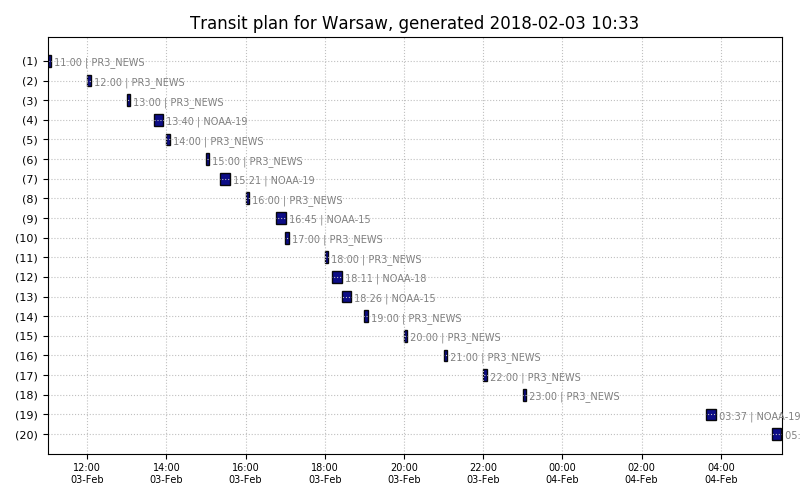
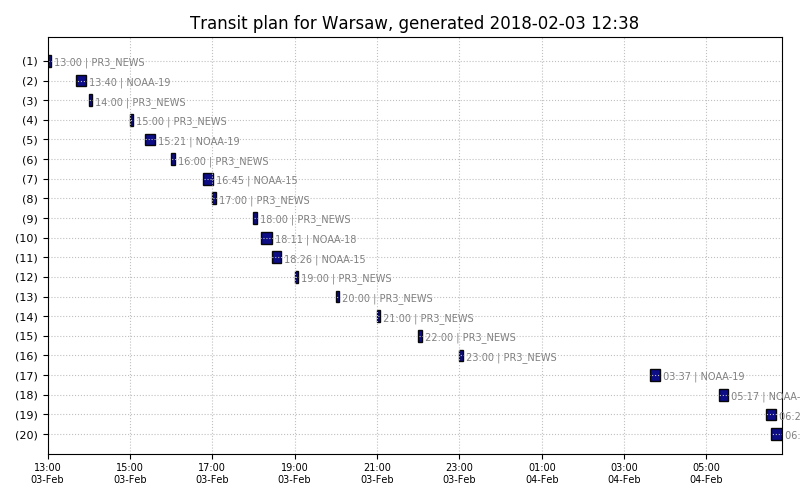
txt table pass generator

diff --git a/var/nextpass.html b/var/nextpass.html
@@ -1,92 +1,92 @@
 <table>
 <tr><td>#</td><td>satellite</td><td>start</td><td>duration</td><td>peak</td><td>azimuth</td><td>freq</td><td>process with</td><tr>
-<tr><td>1</td><td>PR3_NEWS</td><td>2018-02-03 11:00</td><td>05:00</td><td>0°</td><td>0° (N)</td><td>98988000Hz</td><td>modules/fm/fm.sh</td><tr>
-<tr><td>2</td><td>PR3_NEWS</td><td>2018-02-03 12:00</td><td>05:00</td><td>0°</td><td>0° (N)</td><td>98988000Hz</td><td>modules/fm/fm.sh</td><tr>
-<tr><td>3</td><td>PR3_NEWS</td><td>2018-02-03 13:00</td><td>05:00</td><td>0°</td><td>0° (N)</td><td>98988000Hz</td><td>modules/fm/fm.sh</td><tr>
-<tr><td>4</td><td>NOAA-19</td><td>2018-02-03 13:40</td><td>14:37</td><td>44°</td><td>63° (NE)</td><td>137100000Hz</td><td>modules/noaa/noaa.sh</td><tr>
-<tr><td>5</td><td>PR3_NEWS</td><td>2018-02-03 14:00</td><td>05:00</td><td>0°</td><td>0° (N)</td><td>98988000Hz</td><td>modules/fm/fm.sh</td><tr>
-<tr><td>6</td><td>PR3_NEWS</td><td>2018-02-03 15:00</td><td>05:00</td><td>0°</td><td>0° (N)</td><td>98988000Hz</td><td>modules/fm/fm.sh</td><tr>
-<tr><td>7</td><td>NOAA-19</td><td>2018-02-03 15:21</td><td>14:32</td><td>36°</td><td>263° (WSW)</td><td>137100000Hz</td><td>modules/noaa/noaa.sh</td><tr>
-<tr><td>8</td><td>PR3_NEWS</td><td>2018-02-03 16:00</td><td>05:00</td><td>0°</td><td>0° (N)</td><td>98988000Hz</td><td>modules/fm/fm.sh</td><tr>
-<tr><td>9</td><td>NOAA-15</td><td>2018-02-03 16:45</td><td>14:30</td><td>59°</td><td>68° (ENE)</td><td>137620000Hz</td><td>modules/noaa/noaa.sh</td><tr>
-<tr><td>10</td><td>PR3_NEWS</td><td>2018-02-03 17:00</td><td>05:00</td><td>0°</td><td>0° (N)</td><td>98988000Hz</td><td>modules/fm/fm.sh</td><tr>
-<tr><td>11</td><td>PR3_NEWS</td><td>2018-02-03 18:00</td><td>05:00</td><td>0°</td><td>0° (N)</td><td>98988000Hz</td><td>modules/fm/fm.sh</td><tr>
-<tr><td>12</td><td>NOAA-18</td><td>2018-02-03 18:11</td><td>15:06</td><td>86°</td><td>72° (ENE)</td><td>137912500Hz</td><td>modules/noaa/noaa.sh</td><tr>
-<tr><td>13</td><td>NOAA-15</td><td>2018-02-03 18:26</td><td>13:38</td><td>25°</td><td>267° (WSW)</td><td>137620000Hz</td><td>modules/noaa/noaa.sh</td><tr>
-<tr><td>14</td><td>PR3_NEWS</td><td>2018-02-03 19:00</td><td>05:00</td><td>0°</td><td>0° (N)</td><td>98988000Hz</td><td>modules/fm/fm.sh</td><tr>
-<tr><td>15</td><td>PR3_NEWS</td><td>2018-02-03 20:00</td><td>05:00</td><td>0°</td><td>0° (N)</td><td>98988000Hz</td><td>modules/fm/fm.sh</td><tr>
-<tr><td>16</td><td>PR3_NEWS</td><td>2018-02-03 21:00</td><td>05:00</td><td>0°</td><td>0° (N)</td><td>98988000Hz</td><td>modules/fm/fm.sh</td><tr>
-<tr><td>17</td><td>PR3_NEWS</td><td>2018-02-03 22:00</td><td>05:00</td><td>0°</td><td>0° (N)</td><td>98988000Hz</td><td>modules/fm/fm.sh</td><tr>
-<tr><td>18</td><td>PR3_NEWS</td><td>2018-02-03 23:00</td><td>05:00</td><td>0°</td><td>0° (N)</td><td>98988000Hz</td><td>modules/fm/fm.sh</td><tr>
-<tr><td>19</td><td>NOAA-19</td><td>2018-02-04 03:37</td><td>15:09</td><td>61°</td><td>102° (E)</td><td>137100000Hz</td><td>modules/noaa/noaa.sh</td><tr>
-<tr><td>20</td><td>NOAA-19</td><td>2018-02-04 05:17</td><td>13:56</td><td>28°</td><td>302° (WNW)</td><td>137100000Hz</td><td>modules/noaa/noaa.sh</td><tr>
-<tr><td>21</td><td>NOAA-18</td><td>2018-02-04 06:27</td><td>13:37</td><td>22°</td><td>90° (E)</td><td>137912500Hz</td><td>modules/noaa/noaa.sh</td><tr>
-<tr><td>22</td><td>NOAA-15</td><td>2018-02-04 06:34</td><td>14:39</td><td>79°</td><td>105° (E)</td><td>137620000Hz</td><td>modules/noaa/noaa.sh</td><tr>
-<tr><td>23</td><td>PR3_NEWS</td><td>2018-02-04 07:00</td><td>05:00</td><td>0°</td><td>0° (N)</td><td>98988000Hz</td><td>modules/fm/fm.sh</td><tr>
-<tr><td>24</td><td>PR3_NEWS</td><td>2018-02-04 08:00</td><td>05:00</td><td>0°</td><td>0° (N)</td><td>98988000Hz</td><td>modules/fm/fm.sh</td><tr>
-<tr><td>25</td><td>NOAA-18</td><td>2018-02-04 08:07</td><td>14:54</td><td>68°</td><td>290° (W)</td><td>137912500Hz</td><td>modules/noaa/noaa.sh</td><tr>
-<tr><td>26</td><td>NOAA-15</td><td>2018-02-04 08:14</td><td>12:54</td><td>22°</td><td>305° (WNW)</td><td>137620000Hz</td><td>modules/noaa/noaa.sh</td><tr>
-<tr><td>27</td><td>PR3_NEWS</td><td>2018-02-04 09:00</td><td>05:00</td><td>0°</td><td>0° (N)</td><td>98988000Hz</td><td>modules/fm/fm.sh</td><tr>
-<tr><td>28</td><td>PR3_NEWS</td><td>2018-02-04 10:00</td><td>05:00</td><td>0°</td><td>0° (N)</td><td>98988000Hz</td><td>modules/fm/fm.sh</td><tr>
-<tr><td>29</td><td>PR3_NEWS</td><td>2018-02-04 11:00</td><td>05:00</td><td>0°</td><td>0° (N)</td><td>98988000Hz</td><td>modules/fm/fm.sh</td><tr>
-<tr><td>30</td><td>PR3_NEWS</td><td>2018-02-04 12:00</td><td>05:00</td><td>0°</td><td>0° (N)</td><td>98988000Hz</td><td>modules/fm/fm.sh</td><tr>
-<tr><td>31</td><td>PR3_NEWS</td><td>2018-02-04 13:00</td><td>05:00</td><td>0°</td><td>0° (N)</td><td>98988000Hz</td><td>modules/fm/fm.sh</td><tr>
-<tr><td>32</td><td>NOAA-19</td><td>2018-02-04 13:29</td><td>14:21</td><td>37°</td><td>61° (NE)</td><td>137100000Hz</td><td>modules/noaa/noaa.sh</td><tr>
-<tr><td>33</td><td>PR3_NEWS</td><td>2018-02-04 14:00</td><td>05:00</td><td>0°</td><td>0° (N)</td><td>98988000Hz</td><td>modules/fm/fm.sh</td><tr>
-<tr><td>34</td><td>PR3_NEWS</td><td>2018-02-04 15:00</td><td>05:00</td><td>0°</td><td>0° (N)</td><td>98988000Hz</td><td>modules/fm/fm.sh</td><tr>
-<tr><td>35</td><td>NOAA-19</td><td>2018-02-04 15:09</td><td>14:47</td><td>44°</td><td>261° (WSW)</td><td>137100000Hz</td><td>modules/noaa/noaa.sh</td><tr>
-<tr><td>36</td><td>ISS</td><td>2018-02-04 15:52</td><td>09:45</td><td>38°</td><td>156° (SE)</td><td>145800000Hz</td><td>modules/iss/iss_voice.sh</td><tr>
-<tr><td>37</td><td>PR3_NEWS</td><td>2018-02-04 16:00</td><td>05:00</td><td>0°</td><td>0° (N)</td><td>98988000Hz</td><td>modules/fm/fm.sh</td><tr>
-<tr><td>38</td><td>NOAA-15</td><td>2018-02-04 16:21</td><td>14:05</td><td>40°</td><td>63° (NE)</td><td>137620000Hz</td><td>modules/noaa/noaa.sh</td><tr>
-<tr><td>39</td><td>PR3_NEWS</td><td>2018-02-04 17:00</td><td>05:00</td><td>0°</td><td>0° (N)</td><td>98988000Hz</td><td>modules/fm/fm.sh</td><tr>
-<tr><td>40</td><td>ISS</td><td>2018-02-04 17:28</td><td>10:01</td><td>79°</td><td>175° (SSE)</td><td>145800000Hz</td><td>modules/iss/iss_voice.sh</td><tr>
-<tr><td>41</td><td>NOAA-18</td><td>2018-02-04 17:59</td><td>15:03</td><td>72°</td><td>69° (ENE)</td><td>137912500Hz</td><td>modules/noaa/noaa.sh</td><tr>
-<tr><td>42</td><td>NOAA-15</td><td>2018-02-04 18:01</td><td>14:15</td><td>39°</td><td>262° (WSW)</td><td>137620000Hz</td><td>modules/noaa/noaa.sh</td><tr>
-<tr><td>43</td><td>PR3_NEWS</td><td>2018-02-04 19:00</td><td>05:00</td><td>0°</td><td>0° (N)</td><td>98988000Hz</td><td>modules/fm/fm.sh</td><tr>
-<tr><td>44</td><td>ISS</td><td>2018-02-04 19:04</td><td>09:57</td><td>58°</td><td>195° (S)</td><td>145800000Hz</td><td>modules/iss/iss_voice.sh</td><tr>
-<tr><td>45</td><td>NOAA-18</td><td>2018-02-04 19:41</td><td>13:36</td><td>22°</td><td>269° (WSW)</td><td>137912500Hz</td><td>modules/noaa/noaa.sh</td><tr>
-<tr><td>46</td><td>PR3_NEWS</td><td>2018-02-04 20:00</td><td>05:00</td><td>0°</td><td>0° (N)</td><td>98988000Hz</td><td>modules/fm/fm.sh</td><tr>
-<tr><td>47</td><td>PR3_NEWS</td><td>2018-02-04 21:00</td><td>05:00</td><td>0°</td><td>0° (N)</td><td>98988000Hz</td><td>modules/fm/fm.sh</td><tr>
-<tr><td>48</td><td>PR3_NEWS</td><td>2018-02-04 22:00</td><td>05:00</td><td>0°</td><td>0° (N)</td><td>98988000Hz</td><td>modules/fm/fm.sh</td><tr>
-<tr><td>49</td><td>PR3_NEWS</td><td>2018-02-04 23:00</td><td>05:00</td><td>0°</td><td>0° (N)</td><td>98988000Hz</td><td>modules/fm/fm.sh</td><tr>
-<tr><td>50</td><td>NOAA-19</td><td>2018-02-05 03:25</td><td>15:02</td><td>50°</td><td>100° (E)</td><td>137100000Hz</td><td>modules/noaa/noaa.sh</td><tr>
-<tr><td>51</td><td>NOAA-19</td><td>2018-02-05 05:06</td><td>14:18</td><td>34°</td><td>300° (WNW)</td><td>137100000Hz</td><td>modules/noaa/noaa.sh</td><tr>
-<tr><td>52</td><td>NOAA-15</td><td>2018-02-05 06:09</td><td>14:29</td><td>51°</td><td>100° (E)</td><td>137620000Hz</td><td>modules/noaa/noaa.sh</td><tr>
-<tr><td>53</td><td>PR3_NEWS</td><td>2018-02-05 07:00</td><td>05:00</td><td>0°</td><td>0° (N)</td><td>98988000Hz</td><td>modules/fm/fm.sh</td><tr>
-<tr><td>54</td><td>NOAA-15</td><td>2018-02-05 07:49</td><td>13:41</td><td>31°</td><td>300° (WNW)</td><td>137620000Hz</td><td>modules/noaa/noaa.sh</td><tr>
-<tr><td>55</td><td>NOAA-18</td><td>2018-02-05 07:56</td><td>14:59</td><td>82°</td><td>288° (W)</td><td>137912500Hz</td><td>modules/noaa/noaa.sh</td><tr>
-<tr><td>56</td><td>PR3_NEWS</td><td>2018-02-05 09:00</td><td>05:00</td><td>0°</td><td>0° (N)</td><td>98988000Hz</td><td>modules/fm/fm.sh</td><tr>
-<tr><td>57</td><td>PR3_NEWS</td><td>2018-02-05 10:00</td><td>05:00</td><td>0°</td><td>0° (N)</td><td>98988000Hz</td><td>modules/fm/fm.sh</td><tr>
-<tr><td>58</td><td>PR3_NEWS</td><td>2018-02-05 11:00</td><td>05:00</td><td>0°</td><td>0° (N)</td><td>98988000Hz</td><td>modules/fm/fm.sh</td><tr>
-<tr><td>59</td><td>PR3_NEWS</td><td>2018-02-05 12:00</td><td>05:00</td><td>0°</td><td>0° (N)</td><td>98988000Hz</td><td>modules/fm/fm.sh</td><tr>
-<tr><td>60</td><td>PR3_NEWS</td><td>2018-02-05 13:00</td><td>05:00</td><td>0°</td><td>0° (N)</td><td>98988000Hz</td><td>modules/fm/fm.sh</td><tr>
-<tr><td>61</td><td>NOAA-19</td><td>2018-02-05 13:18</td><td>14:04</td><td>31°</td><td>58° (NE)</td><td>137100000Hz</td><td>modules/noaa/noaa.sh</td><tr>
-<tr><td>62</td><td>PR3_NEWS</td><td>2018-02-05 14:00</td><td>05:00</td><td>0°</td><td>0° (N)</td><td>98988000Hz</td><td>modules/fm/fm.sh</td><tr>
-<tr><td>63</td><td>NOAA-19</td><td>2018-02-05 14:58</td><td>14:57</td><td>54°</td><td>258° (WSW)</td><td>137100000Hz</td><td>modules/noaa/noaa.sh</td><tr>
-<tr><td>64</td><td>PR3_NEWS</td><td>2018-02-05 15:00</td><td>05:00</td><td>0°</td><td>0° (N)</td><td>98988000Hz</td><td>modules/fm/fm.sh</td><tr>
-<tr><td>65</td><td>NOAA-15</td><td>2018-02-05 15:56</td><td>13:35</td><td>27°</td><td>58° (NE)</td><td>137620000Hz</td><td>modules/noaa/noaa.sh</td><tr>
-<tr><td>66</td><td>ISS</td><td>2018-02-05 16:36</td><td>09:58</td><td>71°</td><td>170° (SSE)</td><td>145800000Hz</td><td>modules/iss/iss_voice.sh</td><tr>
-<tr><td>67</td><td>PR3_NEWS</td><td>2018-02-05 17:00</td><td>05:00</td><td>0°</td><td>0° (N)</td><td>98988000Hz</td><td>modules/fm/fm.sh</td><tr>
-<tr><td>68</td><td>NOAA-15</td><td>2018-02-05 17:35</td><td>14:39</td><td>60°</td><td>258° (WSW)</td><td>137620000Hz</td><td>modules/noaa/noaa.sh</td><tr>
-<tr><td>69</td><td>NOAA-18</td><td>2018-02-05 17:48</td><td>15:02</td><td>59°</td><td>67° (NE)</td><td>137912500Hz</td><td>modules/noaa/noaa.sh</td><tr>
-<tr><td>70</td><td>PR3_NEWS</td><td>2018-02-05 18:00</td><td>05:00</td><td>0°</td><td>0° (N)</td><td>98988000Hz</td><td>modules/fm/fm.sh</td><tr>
-<tr><td>71</td><td>ISS</td><td>2018-02-05 18:12</td><td>09:57</td><td>71°</td><td>189° (S)</td><td>145800000Hz</td><td>modules/iss/iss_voice.sh</td><tr>
-<tr><td>72</td><td>PR3_NEWS</td><td>2018-02-05 19:00</td><td>05:00</td><td>0°</td><td>0° (N)</td><td>98988000Hz</td><td>modules/fm/fm.sh</td><tr>
-<tr><td>73</td><td>NOAA-18</td><td>2018-02-05 19:29</td><td>13:55</td><td>26°</td><td>267° (WSW)</td><td>137912500Hz</td><td>modules/noaa/noaa.sh</td><tr>
-<tr><td>74</td><td>ISS</td><td>2018-02-05 19:49</td><td>09:25</td><td>27°</td><td>209° (SSW)</td><td>145800000Hz</td><td>modules/iss/iss_voice.sh</td><tr>
-<tr><td>75</td><td>PR3_NEWS</td><td>2018-02-05 20:00</td><td>05:00</td><td>0°</td><td>0° (N)</td><td>98988000Hz</td><td>modules/fm/fm.sh</td><tr>
-<tr><td>76</td><td>PR3_NEWS</td><td>2018-02-05 21:00</td><td>05:00</td><td>0°</td><td>0° (N)</td><td>98988000Hz</td><td>modules/fm/fm.sh</td><tr>
-<tr><td>77</td><td>PR3_NEWS</td><td>2018-02-05 22:00</td><td>05:00</td><td>0°</td><td>0° (N)</td><td>98988000Hz</td><td>modules/fm/fm.sh</td><tr>
-<tr><td>78</td><td>PR3_NEWS</td><td>2018-02-05 23:00</td><td>05:00</td><td>0°</td><td>0° (N)</td><td>98988000Hz</td><td>modules/fm/fm.sh</td><tr>
-<tr><td>79</td><td>NOAA-19</td><td>2018-02-06 03:13</td><td>14:54</td><td>41°</td><td>98° (E)</td><td>137100000Hz</td><td>modules/noaa/noaa.sh</td><tr>
-<tr><td>80</td><td>NOAA-19</td><td>2018-02-06 04:54</td><td>14:35</td><td>40°</td><td>297° (WNW)</td><td>137100000Hz</td><td>modules/noaa/noaa.sh</td><tr>
-<tr><td>81</td><td>NOAA-15</td><td>2018-02-06 05:44</td><td>14:01</td><td>33°</td><td>95° (E)</td><td>137620000Hz</td><td>modules/noaa/noaa.sh</td><tr>
-<tr><td>82</td><td>PR3_NEWS</td><td>2018-02-06 07:00</td><td>05:00</td><td>0°</td><td>0° (N)</td><td>98988000Hz</td><td>modules/fm/fm.sh</td><tr>
-<tr><td>83</td><td>NOAA-15</td><td>2018-02-06 07:24</td><td>14:12</td><td>46°</td><td>295° (WNW)</td><td>137620000Hz</td><td>modules/noaa/noaa.sh</td><tr>
-<tr><td>84</td><td>NOAA-18</td><td>2018-02-06 07:44</td><td>15:00</td><td>82°</td><td>106° (E)</td><td>137912500Hz</td><td>modules/noaa/noaa.sh</td><tr>
-<tr><td>85</td><td>PR3_NEWS</td><td>2018-02-06 08:00</td><td>05:00</td><td>0°</td><td>0° (N)</td><td>98988000Hz</td><td>modules/fm/fm.sh</td><tr>
-<tr><td>86</td><td>PR3_NEWS</td><td>2018-02-06 09:00</td><td>05:00</td><td>0°</td><td>0° (N)</td><td>98988000Hz</td><td>modules/fm/fm.sh</td><tr>
-<tr><td>87</td><td>NOAA-18</td><td>2018-02-06 09:25</td><td>13:10</td><td>22°</td><td>306° (WNW)</td><td>137912500Hz</td><td>modules/noaa/noaa.sh</td><tr>
+<tr><td>1</td><td>PR3_NEWS</td><td>2018-02-03 13:00</td><td>05:00</td><td>0°</td><td>0° (N)</td><td>98988000Hz</td><td>modules/fm/fm.sh</td><tr>
+<tr><td>2</td><td>NOAA-19</td><td>2018-02-03 13:40</td><td>14:37</td><td>44°</td><td>63° (NE)</td><td>137100000Hz</td><td>modules/noaa/noaa.sh</td><tr>
+<tr><td>3</td><td>PR3_NEWS</td><td>2018-02-03 14:00</td><td>05:00</td><td>0°</td><td>0° (N)</td><td>98988000Hz</td><td>modules/fm/fm.sh</td><tr>
+<tr><td>4</td><td>PR3_NEWS</td><td>2018-02-03 15:00</td><td>05:00</td><td>0°</td><td>0° (N)</td><td>98988000Hz</td><td>modules/fm/fm.sh</td><tr>
+<tr><td>5</td><td>NOAA-19</td><td>2018-02-03 15:21</td><td>14:32</td><td>36°</td><td>263° (WSW)</td><td>137100000Hz</td><td>modules/noaa/noaa.sh</td><tr>
+<tr><td>6</td><td>PR3_NEWS</td><td>2018-02-03 16:00</td><td>05:00</td><td>0°</td><td>0° (N)</td><td>98988000Hz</td><td>modules/fm/fm.sh</td><tr>
+<tr><td>7</td><td>NOAA-15</td><td>2018-02-03 16:45</td><td>14:30</td><td>59°</td><td>68° (ENE)</td><td>137620000Hz</td><td>modules/noaa/noaa.sh</td><tr>
+<tr><td>8</td><td>PR3_NEWS</td><td>2018-02-03 17:00</td><td>05:00</td><td>0°</td><td>0° (N)</td><td>98988000Hz</td><td>modules/fm/fm.sh</td><tr>
+<tr><td>9</td><td>PR3_NEWS</td><td>2018-02-03 18:00</td><td>05:00</td><td>0°</td><td>0° (N)</td><td>98988000Hz</td><td>modules/fm/fm.sh</td><tr>
+<tr><td>10</td><td>NOAA-18</td><td>2018-02-03 18:11</td><td>15:06</td><td>86°</td><td>72° (ENE)</td><td>137912500Hz</td><td>modules/noaa/noaa.sh</td><tr>
+<tr><td>11</td><td>NOAA-15</td><td>2018-02-03 18:26</td><td>13:38</td><td>25°</td><td>267° (WSW)</td><td>137620000Hz</td><td>modules/noaa/noaa.sh</td><tr>
+<tr><td>12</td><td>PR3_NEWS</td><td>2018-02-03 19:00</td><td>05:00</td><td>0°</td><td>0° (N)</td><td>98988000Hz</td><td>modules/fm/fm.sh</td><tr>
+<tr><td>13</td><td>PR3_NEWS</td><td>2018-02-03 20:00</td><td>05:00</td><td>0°</td><td>0° (N)</td><td>98988000Hz</td><td>modules/fm/fm.sh</td><tr>
+<tr><td>14</td><td>PR3_NEWS</td><td>2018-02-03 21:00</td><td>05:00</td><td>0°</td><td>0° (N)</td><td>98988000Hz</td><td>modules/fm/fm.sh</td><tr>
+<tr><td>15</td><td>PR3_NEWS</td><td>2018-02-03 22:00</td><td>05:00</td><td>0°</td><td>0° (N)</td><td>98988000Hz</td><td>modules/fm/fm.sh</td><tr>
+<tr><td>16</td><td>PR3_NEWS</td><td>2018-02-03 23:00</td><td>05:00</td><td>0°</td><td>0° (N)</td><td>98988000Hz</td><td>modules/fm/fm.sh</td><tr>
+<tr><td>17</td><td>NOAA-19</td><td>2018-02-04 03:37</td><td>15:09</td><td>61°</td><td>102° (E)</td><td>137100000Hz</td><td>modules/noaa/noaa.sh</td><tr>
+<tr><td>18</td><td>NOAA-19</td><td>2018-02-04 05:17</td><td>13:56</td><td>28°</td><td>302° (WNW)</td><td>137100000Hz</td><td>modules/noaa/noaa.sh</td><tr>
+<tr><td>19</td><td>NOAA-18</td><td>2018-02-04 06:27</td><td>13:37</td><td>22°</td><td>90° (E)</td><td>137912500Hz</td><td>modules/noaa/noaa.sh</td><tr>
+<tr><td>20</td><td>NOAA-15</td><td>2018-02-04 06:34</td><td>14:39</td><td>79°</td><td>105° (E)</td><td>137620000Hz</td><td>modules/noaa/noaa.sh</td><tr>
+<tr><td>21</td><td>PR3_NEWS</td><td>2018-02-04 07:00</td><td>05:00</td><td>0°</td><td>0° (N)</td><td>98988000Hz</td><td>modules/fm/fm.sh</td><tr>
+<tr><td>22</td><td>PR3_NEWS</td><td>2018-02-04 08:00</td><td>05:00</td><td>0°</td><td>0° (N)</td><td>98988000Hz</td><td>modules/fm/fm.sh</td><tr>
+<tr><td>23</td><td>NOAA-18</td><td>2018-02-04 08:07</td><td>14:54</td><td>68°</td><td>290° (W)</td><td>137912500Hz</td><td>modules/noaa/noaa.sh</td><tr>
+<tr><td>24</td><td>NOAA-15</td><td>2018-02-04 08:14</td><td>12:54</td><td>22°</td><td>305° (WNW)</td><td>137620000Hz</td><td>modules/noaa/noaa.sh</td><tr>
+<tr><td>25</td><td>PR3_NEWS</td><td>2018-02-04 09:00</td><td>05:00</td><td>0°</td><td>0° (N)</td><td>98988000Hz</td><td>modules/fm/fm.sh</td><tr>
+<tr><td>26</td><td>PR3_NEWS</td><td>2018-02-04 10:00</td><td>05:00</td><td>0°</td><td>0° (N)</td><td>98988000Hz</td><td>modules/fm/fm.sh</td><tr>
+<tr><td>27</td><td>PR3_NEWS</td><td>2018-02-04 11:00</td><td>05:00</td><td>0°</td><td>0° (N)</td><td>98988000Hz</td><td>modules/fm/fm.sh</td><tr>
+<tr><td>28</td><td>PR3_NEWS</td><td>2018-02-04 12:00</td><td>05:00</td><td>0°</td><td>0° (N)</td><td>98988000Hz</td><td>modules/fm/fm.sh</td><tr>
+<tr><td>29</td><td>PR3_NEWS</td><td>2018-02-04 13:00</td><td>05:00</td><td>0°</td><td>0° (N)</td><td>98988000Hz</td><td>modules/fm/fm.sh</td><tr>
+<tr><td>30</td><td>NOAA-19</td><td>2018-02-04 13:29</td><td>14:21</td><td>37°</td><td>61° (NE)</td><td>137100000Hz</td><td>modules/noaa/noaa.sh</td><tr>
+<tr><td>31</td><td>PR3_NEWS</td><td>2018-02-04 14:00</td><td>05:00</td><td>0°</td><td>0° (N)</td><td>98988000Hz</td><td>modules/fm/fm.sh</td><tr>
+<tr><td>32</td><td>PR3_NEWS</td><td>2018-02-04 15:00</td><td>05:00</td><td>0°</td><td>0° (N)</td><td>98988000Hz</td><td>modules/fm/fm.sh</td><tr>
+<tr><td>33</td><td>NOAA-19</td><td>2018-02-04 15:09</td><td>14:47</td><td>44°</td><td>261° (WSW)</td><td>137100000Hz</td><td>modules/noaa/noaa.sh</td><tr>
+<tr><td>34</td><td>ISS</td><td>2018-02-04 15:52</td><td>09:45</td><td>38°</td><td>156° (SE)</td><td>145800000Hz</td><td>modules/iss/iss_voice.sh</td><tr>
+<tr><td>35</td><td>PR3_NEWS</td><td>2018-02-04 16:00</td><td>05:00</td><td>0°</td><td>0° (N)</td><td>98988000Hz</td><td>modules/fm/fm.sh</td><tr>
+<tr><td>36</td><td>NOAA-15</td><td>2018-02-04 16:21</td><td>14:05</td><td>40°</td><td>63° (NE)</td><td>137620000Hz</td><td>modules/noaa/noaa.sh</td><tr>
+<tr><td>37</td><td>PR3_NEWS</td><td>2018-02-04 17:00</td><td>05:00</td><td>0°</td><td>0° (N)</td><td>98988000Hz</td><td>modules/fm/fm.sh</td><tr>
+<tr><td>38</td><td>ISS</td><td>2018-02-04 17:28</td><td>10:01</td><td>79°</td><td>175° (SSE)</td><td>145800000Hz</td><td>modules/iss/iss_voice.sh</td><tr>
+<tr><td>39</td><td>NOAA-18</td><td>2018-02-04 17:59</td><td>15:03</td><td>72°</td><td>69° (ENE)</td><td>137912500Hz</td><td>modules/noaa/noaa.sh</td><tr>
+<tr><td>40</td><td>NOAA-15</td><td>2018-02-04 18:01</td><td>14:15</td><td>39°</td><td>262° (WSW)</td><td>137620000Hz</td><td>modules/noaa/noaa.sh</td><tr>
+<tr><td>41</td><td>PR3_NEWS</td><td>2018-02-04 19:00</td><td>05:00</td><td>0°</td><td>0° (N)</td><td>98988000Hz</td><td>modules/fm/fm.sh</td><tr>
+<tr><td>42</td><td>ISS</td><td>2018-02-04 19:04</td><td>09:57</td><td>58°</td><td>195° (S)</td><td>145800000Hz</td><td>modules/iss/iss_voice.sh</td><tr>
+<tr><td>43</td><td>NOAA-18</td><td>2018-02-04 19:41</td><td>13:36</td><td>22°</td><td>269° (WSW)</td><td>137912500Hz</td><td>modules/noaa/noaa.sh</td><tr>
+<tr><td>44</td><td>PR3_NEWS</td><td>2018-02-04 20:00</td><td>05:00</td><td>0°</td><td>0° (N)</td><td>98988000Hz</td><td>modules/fm/fm.sh</td><tr>
+<tr><td>45</td><td>PR3_NEWS</td><td>2018-02-04 21:00</td><td>05:00</td><td>0°</td><td>0° (N)</td><td>98988000Hz</td><td>modules/fm/fm.sh</td><tr>
+<tr><td>46</td><td>PR3_NEWS</td><td>2018-02-04 22:00</td><td>05:00</td><td>0°</td><td>0° (N)</td><td>98988000Hz</td><td>modules/fm/fm.sh</td><tr>
+<tr><td>47</td><td>PR3_NEWS</td><td>2018-02-04 23:00</td><td>05:00</td><td>0°</td><td>0° (N)</td><td>98988000Hz</td><td>modules/fm/fm.sh</td><tr>
+<tr><td>48</td><td>NOAA-19</td><td>2018-02-05 03:25</td><td>15:02</td><td>50°</td><td>100° (E)</td><td>137100000Hz</td><td>modules/noaa/noaa.sh</td><tr>
+<tr><td>49</td><td>NOAA-19</td><td>2018-02-05 05:06</td><td>14:18</td><td>34°</td><td>300° (WNW)</td><td>137100000Hz</td><td>modules/noaa/noaa.sh</td><tr>
+<tr><td>50</td><td>NOAA-15</td><td>2018-02-05 06:09</td><td>14:29</td><td>51°</td><td>100° (E)</td><td>137620000Hz</td><td>modules/noaa/noaa.sh</td><tr>
+<tr><td>51</td><td>PR3_NEWS</td><td>2018-02-05 07:00</td><td>05:00</td><td>0°</td><td>0° (N)</td><td>98988000Hz</td><td>modules/fm/fm.sh</td><tr>
+<tr><td>52</td><td>NOAA-15</td><td>2018-02-05 07:49</td><td>13:41</td><td>31°</td><td>300° (WNW)</td><td>137620000Hz</td><td>modules/noaa/noaa.sh</td><tr>
+<tr><td>53</td><td>NOAA-18</td><td>2018-02-05 07:56</td><td>14:59</td><td>82°</td><td>288° (W)</td><td>137912500Hz</td><td>modules/noaa/noaa.sh</td><tr>
+<tr><td>54</td><td>PR3_NEWS</td><td>2018-02-05 09:00</td><td>05:00</td><td>0°</td><td>0° (N)</td><td>98988000Hz</td><td>modules/fm/fm.sh</td><tr>
+<tr><td>55</td><td>PR3_NEWS</td><td>2018-02-05 10:00</td><td>05:00</td><td>0°</td><td>0° (N)</td><td>98988000Hz</td><td>modules/fm/fm.sh</td><tr>
+<tr><td>56</td><td>PR3_NEWS</td><td>2018-02-05 11:00</td><td>05:00</td><td>0°</td><td>0° (N)</td><td>98988000Hz</td><td>modules/fm/fm.sh</td><tr>
+<tr><td>57</td><td>PR3_NEWS</td><td>2018-02-05 12:00</td><td>05:00</td><td>0°</td><td>0° (N)</td><td>98988000Hz</td><td>modules/fm/fm.sh</td><tr>
+<tr><td>58</td><td>PR3_NEWS</td><td>2018-02-05 13:00</td><td>05:00</td><td>0°</td><td>0° (N)</td><td>98988000Hz</td><td>modules/fm/fm.sh</td><tr>
+<tr><td>59</td><td>NOAA-19</td><td>2018-02-05 13:18</td><td>14:04</td><td>31°</td><td>58° (NE)</td><td>137100000Hz</td><td>modules/noaa/noaa.sh</td><tr>
+<tr><td>60</td><td>PR3_NEWS</td><td>2018-02-05 14:00</td><td>05:00</td><td>0°</td><td>0° (N)</td><td>98988000Hz</td><td>modules/fm/fm.sh</td><tr>
+<tr><td>61</td><td>NOAA-19</td><td>2018-02-05 14:58</td><td>14:57</td><td>54°</td><td>258° (WSW)</td><td>137100000Hz</td><td>modules/noaa/noaa.sh</td><tr>
+<tr><td>62</td><td>PR3_NEWS</td><td>2018-02-05 15:00</td><td>05:00</td><td>0°</td><td>0° (N)</td><td>98988000Hz</td><td>modules/fm/fm.sh</td><tr>
+<tr><td>63</td><td>NOAA-15</td><td>2018-02-05 15:56</td><td>13:35</td><td>27°</td><td>58° (NE)</td><td>137620000Hz</td><td>modules/noaa/noaa.sh</td><tr>
+<tr><td>64</td><td>ISS</td><td>2018-02-05 16:36</td><td>09:58</td><td>71°</td><td>170° (SSE)</td><td>145800000Hz</td><td>modules/iss/iss_voice.sh</td><tr>
+<tr><td>65</td><td>PR3_NEWS</td><td>2018-02-05 17:00</td><td>05:00</td><td>0°</td><td>0° (N)</td><td>98988000Hz</td><td>modules/fm/fm.sh</td><tr>
+<tr><td>66</td><td>NOAA-15</td><td>2018-02-05 17:35</td><td>14:39</td><td>60°</td><td>258° (WSW)</td><td>137620000Hz</td><td>modules/noaa/noaa.sh</td><tr>
+<tr><td>67</td><td>NOAA-18</td><td>2018-02-05 17:48</td><td>15:02</td><td>59°</td><td>67° (NE)</td><td>137912500Hz</td><td>modules/noaa/noaa.sh</td><tr>
+<tr><td>68</td><td>PR3_NEWS</td><td>2018-02-05 18:00</td><td>05:00</td><td>0°</td><td>0° (N)</td><td>98988000Hz</td><td>modules/fm/fm.sh</td><tr>
+<tr><td>69</td><td>ISS</td><td>2018-02-05 18:12</td><td>09:57</td><td>71°</td><td>189° (S)</td><td>145800000Hz</td><td>modules/iss/iss_voice.sh</td><tr>
+<tr><td>70</td><td>PR3_NEWS</td><td>2018-02-05 19:00</td><td>05:00</td><td>0°</td><td>0° (N)</td><td>98988000Hz</td><td>modules/fm/fm.sh</td><tr>
+<tr><td>71</td><td>NOAA-18</td><td>2018-02-05 19:29</td><td>13:55</td><td>26°</td><td>267° (WSW)</td><td>137912500Hz</td><td>modules/noaa/noaa.sh</td><tr>
+<tr><td>72</td><td>ISS</td><td>2018-02-05 19:49</td><td>09:25</td><td>27°</td><td>209° (SSW)</td><td>145800000Hz</td><td>modules/iss/iss_voice.sh</td><tr>
+<tr><td>73</td><td>PR3_NEWS</td><td>2018-02-05 20:00</td><td>05:00</td><td>0°</td><td>0° (N)</td><td>98988000Hz</td><td>modules/fm/fm.sh</td><tr>
+<tr><td>74</td><td>PR3_NEWS</td><td>2018-02-05 21:00</td><td>05:00</td><td>0°</td><td>0° (N)</td><td>98988000Hz</td><td>modules/fm/fm.sh</td><tr>
+<tr><td>75</td><td>PR3_NEWS</td><td>2018-02-05 22:00</td><td>05:00</td><td>0°</td><td>0° (N)</td><td>98988000Hz</td><td>modules/fm/fm.sh</td><tr>
+<tr><td>76</td><td>PR3_NEWS</td><td>2018-02-05 23:00</td><td>05:00</td><td>0°</td><td>0° (N)</td><td>98988000Hz</td><td>modules/fm/fm.sh</td><tr>
+<tr><td>77</td><td>NOAA-19</td><td>2018-02-06 03:13</td><td>14:54</td><td>41°</td><td>98° (E)</td><td>137100000Hz</td><td>modules/noaa/noaa.sh</td><tr>
+<tr><td>78</td><td>NOAA-19</td><td>2018-02-06 04:54</td><td>14:35</td><td>40°</td><td>297° (WNW)</td><td>137100000Hz</td><td>modules/noaa/noaa.sh</td><tr>
+<tr><td>79</td><td>NOAA-15</td><td>2018-02-06 05:44</td><td>14:01</td><td>33°</td><td>95° (E)</td><td>137620000Hz</td><td>modules/noaa/noaa.sh</td><tr>
+<tr><td>80</td><td>PR3_NEWS</td><td>2018-02-06 07:00</td><td>05:00</td><td>0°</td><td>0° (N)</td><td>98988000Hz</td><td>modules/fm/fm.sh</td><tr>
+<tr><td>81</td><td>NOAA-15</td><td>2018-02-06 07:24</td><td>14:12</td><td>46°</td><td>295° (WNW)</td><td>137620000Hz</td><td>modules/noaa/noaa.sh</td><tr>
+<tr><td>82</td><td>NOAA-18</td><td>2018-02-06 07:44</td><td>15:00</td><td>82°</td><td>106° (E)</td><td>137912500Hz</td><td>modules/noaa/noaa.sh</td><tr>
+<tr><td>83</td><td>PR3_NEWS</td><td>2018-02-06 08:00</td><td>05:00</td><td>0°</td><td>0° (N)</td><td>98988000Hz</td><td>modules/fm/fm.sh</td><tr>
+<tr><td>84</td><td>PR3_NEWS</td><td>2018-02-06 09:00</td><td>05:00</td><td>0°</td><td>0° (N)</td><td>98988000Hz</td><td>modules/fm/fm.sh</td><tr>
+<tr><td>85</td><td>NOAA-18</td><td>2018-02-06 09:25</td><td>13:10</td><td>22°</td><td>306° (WNW)</td><td>137912500Hz</td><td>modules/noaa/noaa.sh</td><tr>
+<tr><td>86</td><td>PR3_NEWS</td><td>2018-02-06 10:00</td><td>05:00</td><td>0°</td><td>0° (N)</td><td>98988000Hz</td><td>modules/fm/fm.sh</td><tr>
+<tr><td>87</td><td>PR3_NEWS</td><td>2018-02-06 11:00</td><td>05:00</td><td>0°</td><td>0° (N)</td><td>98988000Hz</td><td>modules/fm/fm.sh</td><tr>
 <tr><td>88</td><td>NOAA-19</td><td>2018-02-06 13:06</td><td>13:44</td><td>27°</td><td>56° (NE)</td><td>137100000Hz</td><td>modules/noaa/noaa.sh</td><tr>
 <tr><td>89</td><td>NOAA-19</td><td>2018-02-06 14:46</td><td>15:03</td><td>65°</td><td>256° (WSW)</td><td>137100000Hz</td><td>modules/noaa/noaa.sh</td><tr>
 <tr><td>90</td><td>ISS</td><td>2018-02-06 15:43</td><td>09:56</td><td>57°</td><td>164° (SSE)</td><td>145800000Hz</td><td>modules/iss/iss_voice.sh</td><tr>

diff --git a/genpasstable.py b/genpasstable.py
@@ -113,6 +113,27 @@ def listNextPasesHtml(passTable, howmany):
     
     return output
 
+def listNextPasesTxt(passTable, howmany):
+    
+    txtTemplate = "%3s\t%10s\t%10s\t%5s\t%3s\t%3s\t%3s\t%10s\t%10s\n"
+    
+    i=1
+    output=""
+    output += txtTemplate % ("#", "satellite", "start", "duration", "peak", "azimuth", "azimuth", "freq", "process with")
+    
+    for satelitePass in passTable[0:howmany]:
+        satellite, start, duration, peak, azimuth = satelitePass
+        freq   = satellitesData[satellite]['freq']
+        processWith = satellitesData[satellite]['processWith']
+        
+        output+=txtTemplate % (i, satellite, t2human(start), t2humanMS(duration), peak, azimuth, azimuth2dir(azimuth), freq, processWith)
+        i+=1
+    
+    output+="\n"
+    
+    return output
+
+
 def listNextPasesList(passTable, howmany):
     output = []
     for satelitePass in passTable[0:howmany]:
@@ -140,3 +161,5 @@ if __name__ == "__main__":
     
     listNextPasesListList = listNextPasesList(passTable, 20)
     CreateGanttChart(listNextPasesListList)
+
+    print listNextPasesTxt(passTable, 100)
